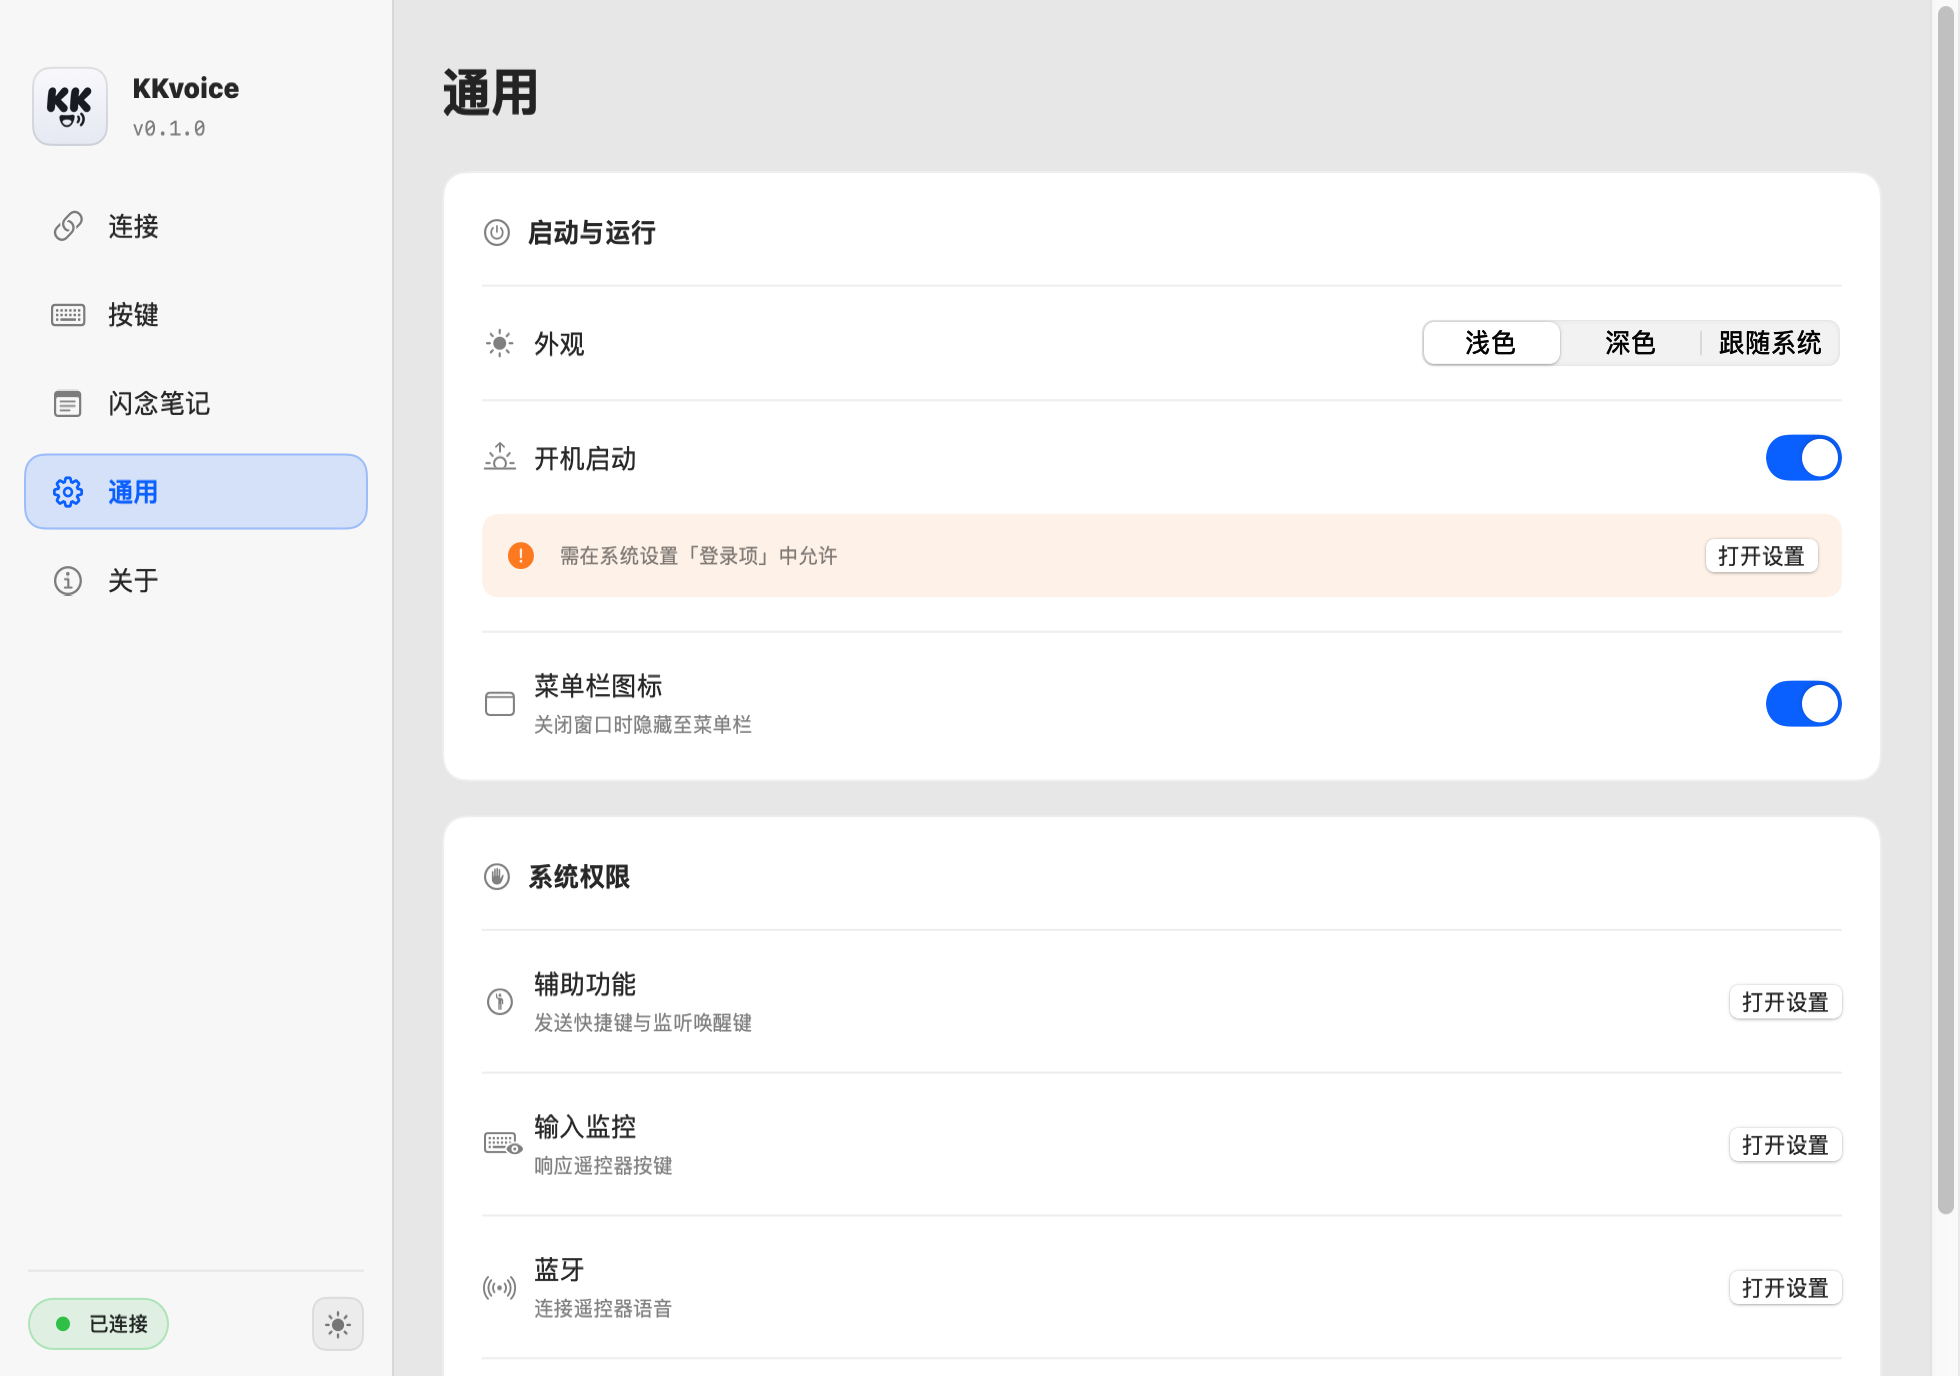
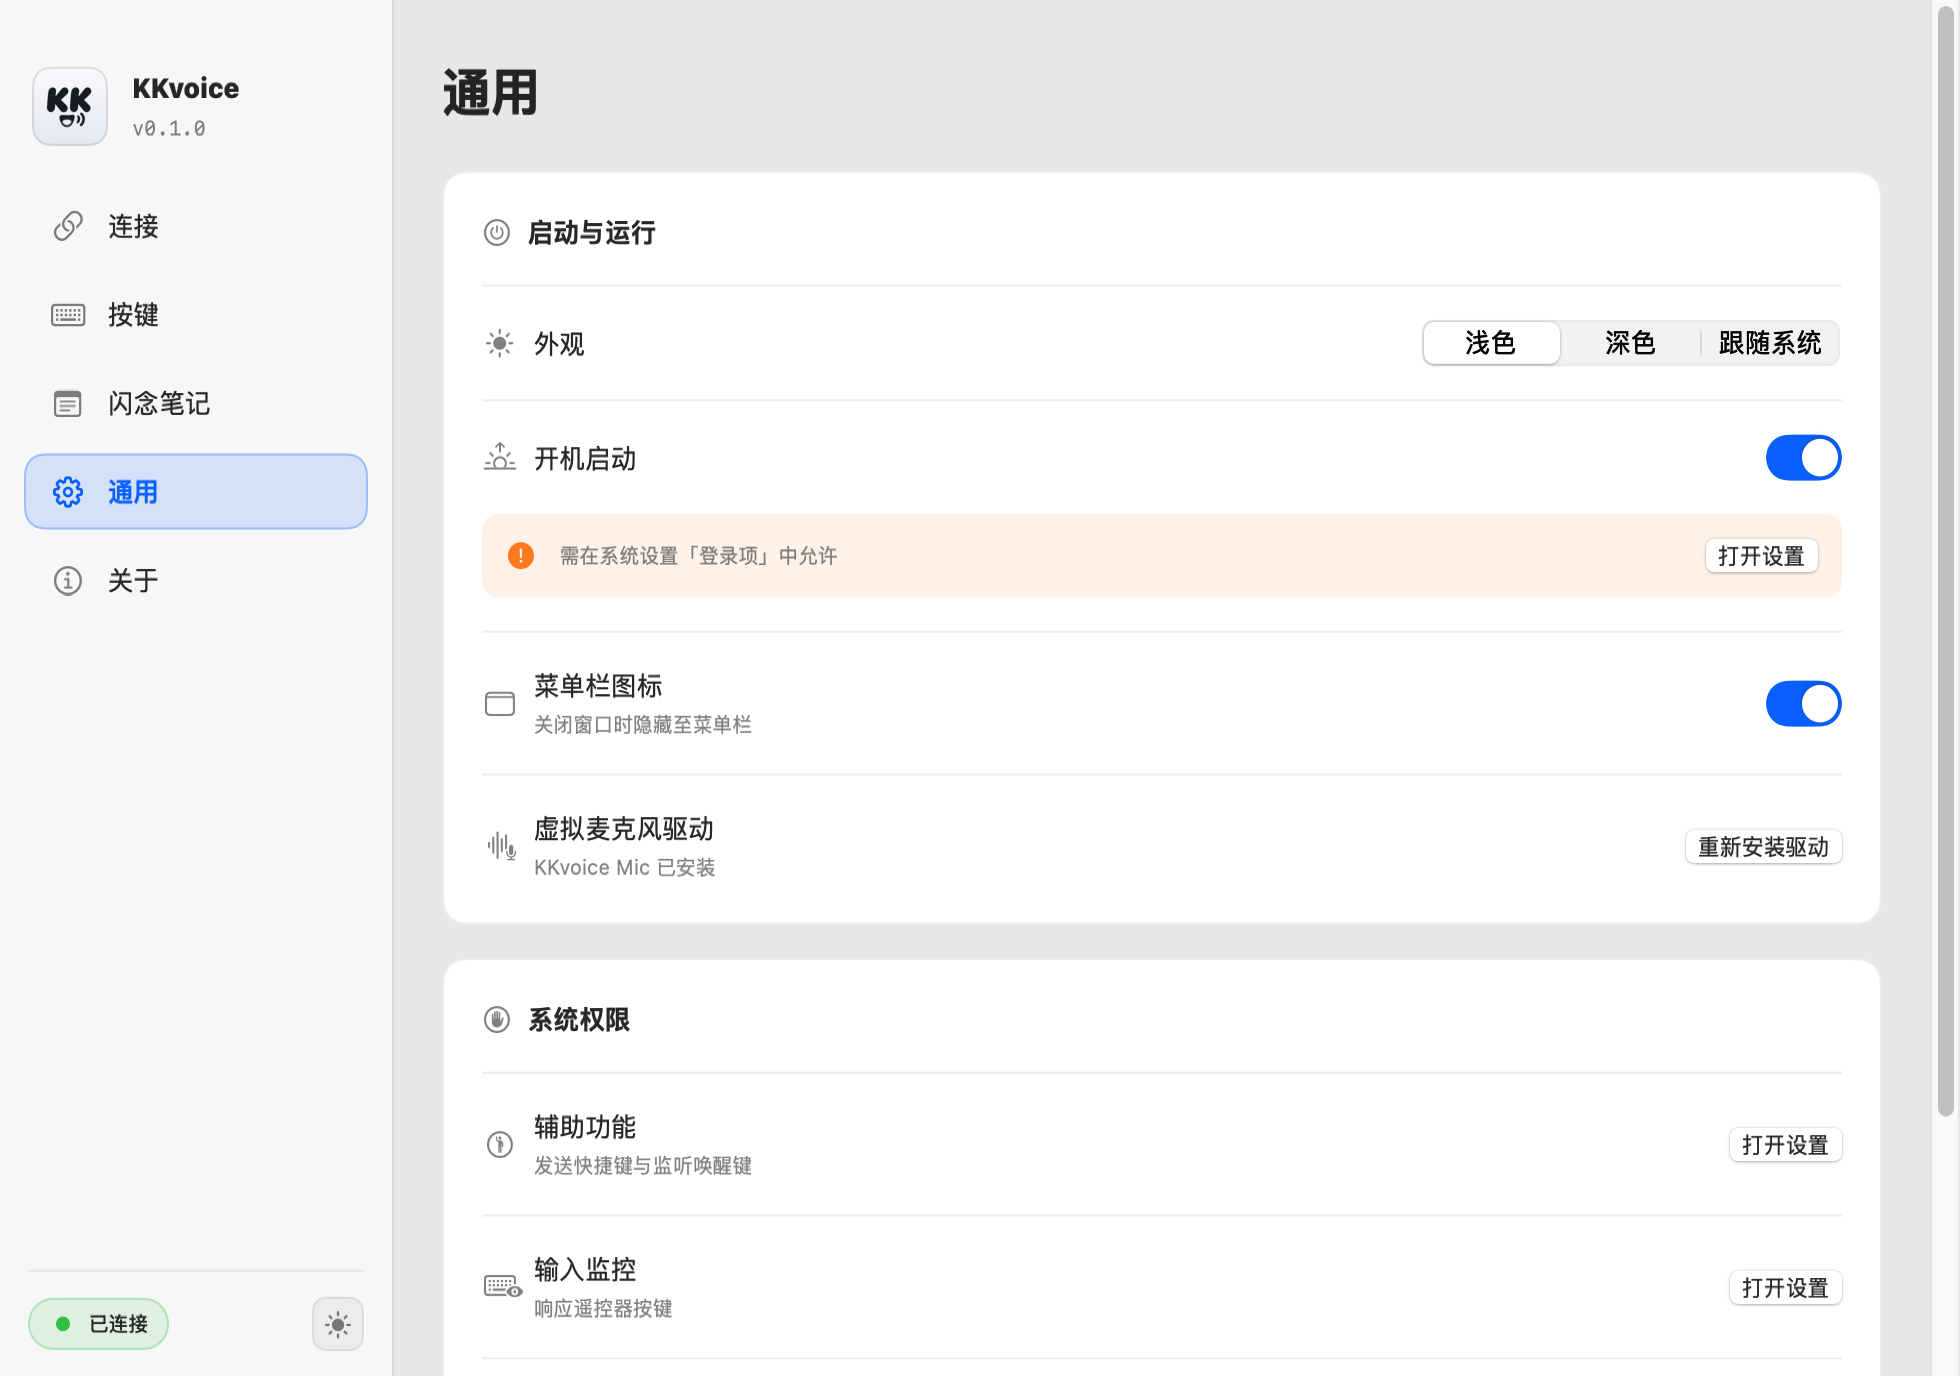
docs: update README, DEVELOPMENT.md, and general screenshot for bundled KKvoice Mic installer

diff --git a/README.md b/README.md
@@ -25,11 +25,11 @@
 ## 下载与安装
 
 1. **下载应用**：前往 [GitHub Releases](https://github.com/intelKANG/KKvoice/releases/latest) 下载最新 `KKvoice-*.zip`，解压后将 `KKvoice.app` 拖入 `/Applications`（应用程序）。
-2. **首次打开**：应用使用本地 Ad-hoc 签名（未经过 Apple 公证）。首次打开请**在访达中右键点击 `KKvoice.app` 选择「打开」**，或在终端执行：
+2. **首次打开**：应用未经过 Apple 公证（Notarization）。首次打开请**在访达中右键点击 `KKvoice.app` 选择「打开」**，或在终端执行：
    ```sh
    xattr -dr com.apple.quarantine /Applications/KKvoice.app
    ```
-3. **安装虚拟声卡**：首次打开应用后，点击界面上的**「安装 KKvoice Mic」**并输入管理员密码即可完成驱动安装（也可选择系统已有的 BlackHole 兼容虚拟音频设备）。
+3. **安装虚拟声卡**：首次启动若未检测到虚拟声卡会自动提示安装，也可在「连接」或「通用」页面点击**「安装 KKvoice Mic」**并输入管理员密码完成安装（或选择系统已有的 BlackHole 兼容虚拟音频设备）。
 4. **授予系统权限**：根据功能需要在「系统设置 → 隐私与安全性」中开启：
    - **蓝牙**：连接并接收遥控器语音与按键
    - **辅助功能**：发送模拟快捷键与监听唤醒键
@@ -76,7 +76,7 @@ open dist/KKvoice.app
 **KKvoice** is a native macOS companion app for Google TV / Chromecast voice remotes. It turns the remote into a wireless microphone for voice dictation apps (such as Vokie), automatically falls back to a selected Mac microphone when the remote is disconnected, maps remote buttons to macOS shortcuts/apps/text, and integrates with SnapNote.
 
 - **Download**: Grab the latest archive from [Releases](https://github.com/intelKANG/KKvoice/releases/latest) and move `KKvoice.app` to `/Applications`.
-- **First Launch (Ad-hoc Signed)**: Right-click `KKvoice.app` → **Open**, or run:
+- **First Launch (Not Notarized)**: Right-click `KKvoice.app` → **Open**, or run:
   ```sh
   xattr -dr com.apple.quarantine /Applications/KKvoice.app
   ```

diff --git a/DEVELOPMENT.md b/DEVELOPMENT.md
@@ -28,7 +28,7 @@ swift test
 ./Scripts/build-app.sh
 ```
 
-`Scripts/build-helper.sh` compiles an arm64/x86_64 Objective-C helper with the macOS 12 deployment target. `Scripts/build-app.sh` runs that build, compiles the Swift package in release mode, copies the icon, helper, and (when built from BlackHole source) `KKvoiceMic.driver` into `dist/KKvoice.app`, and applies an ad-hoc signature. Do not treat this signature as suitable for notarized distribution or as stable TCC identity across signing changes.
+`Scripts/build-helper.sh` compiles an arm64/x86_64 Objective-C helper with the macOS 12 deployment target. `Scripts/build-app.sh` runs that build, compiles the Swift package in release mode, copies the icon, helper, and (when built from BlackHole source) `KKvoiceMic.driver` into `dist/KKvoice.app`, and signs inside-out using the detected local Apple signing identity (`Developer ID Application` or `Apple Development` with Hardened Runtime, falling back to `-` ad-hoc signing when no certificate is found).
 
 ## Audio driver
 
